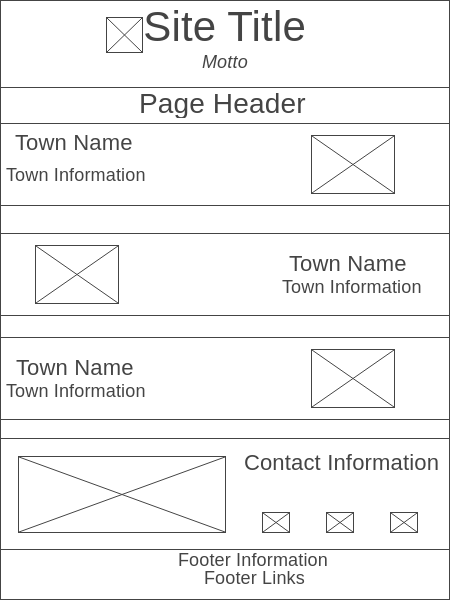
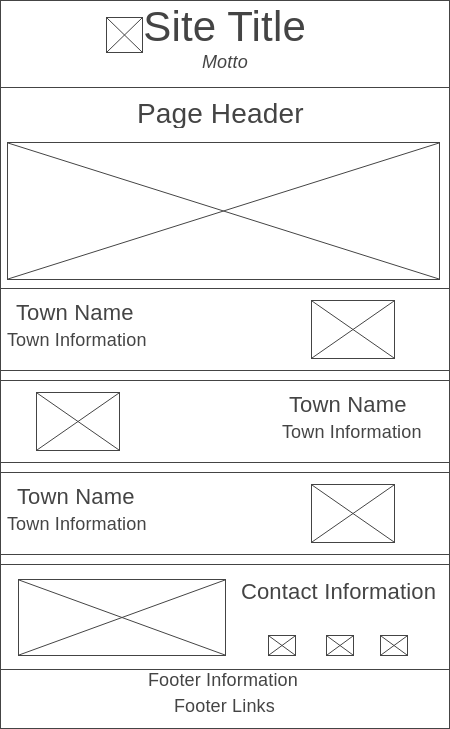
hero image

Changed region(s): [[0.0, 0.0, 0.9956, 1.0], [0.7778, 0.27, 0.8089, 0.3], [0.6222, 0.24, 0.6533, 0.27]]

diff --git a/lesson9/home_wireframes.html b/lesson9/home_wireframes.html
@@ -56,15 +56,15 @@
             <div class="wireframes">
                 <div class="wireframe">
                     <h2>Large</h2>
-                    <img src="images/150x150.png"data-src="images/large-wireframe.png" height="600" width="1024">
+                    <img src="images/150x150.png"data-src="images/large-wireframe.png" height="729" width="1024">
                 </div>
                 <div class="wireframe">
                     <h2>Medium</h2>
-                    <img src="images/150x150.png" data-src="images/medium-wireframe.png" height="600" widht="800">
+                    <img src="images/150x150.png" data-src="images/medium-wireframe.png" height="729" widht="800">
                 </div>
                 <div class="wireframe">
                     <h2>Small</h2>
-                    <img src="images/150x150.png" data-src="images/small-wireframe.png" height="600" width="450">
+                    <img src="images/150x150.png" data-src="images/small-wireframe.png" height="729" width="450">
                 </div>
             </div>
             <div class="contact-information">

diff --git a/lesson9/css/small.css b/lesson9/css/small.css
@@ -302,9 +302,15 @@ p {
 .wireframe{
     box-shadow: 0px 2px 5px;
 }
+.wireframe h2{
+    background-color: #518260;
+    padding: 15px;
+    margin-top: 0;
+}
 .wireframe img{
-    width: 100%;
-    height: 100%;
+    object-position: center;
+    object-fit: cover;
+    aspect-ratio: 5/3;
 }
 .wireframe:nth-child(2){
     max-width: 800px;
@@ -313,4 +319,12 @@ p {
 .wireframe:nth-child(3){
     max-width: 450px;
     width: 100%;
+}
+.home-hero img{
+    width: 100%;
+    height: 100%;
+    object-position: center;
+}
+.home-hero img:hover{
+    box-shadow:0 2px 5px 3px#2C2F2D;
 }

diff --git a/lesson9/css/medium.css b/lesson9/css/medium.css
@@ -67,4 +67,23 @@
     .towns p{
         font-size: 20px;
     }
+    .home-hero{
+        background:url("../images/home-hero-image.jpeg") no-repeat;
+        background-size: 100%;
+        width: 100%;
+        height: 400px;
+        aspect-ratio: 5/3.3;
+        background-size: cover;
+        background-position: center;
+        margin: 0 auto;
+        margin-top: -20px;
+        margin-bottom: 20px;
+        box-shadow: 0 2px 5px #2C2F2D;
+    }
+    .home-hero:hover{
+        box-shadow:0 2px 5px 3px#2C2F2D;
+    }
+    .home-hero img{
+        display: none;
+    }
 }

diff --git a/lesson9/css/large.css b/lesson9/css/large.css
@@ -100,4 +100,22 @@
     .towns section:nth-child(odd){
         padding: 0;
     }
+    .home-hero{
+        background:url("../images/home-hero-image.jpeg") no-repeat;
+        background-size: 100%;
+        width: 97%;
+        height: 400px;
+        aspect-ratio: 500/333;
+        background-size: cover;
+        background-position: center;
+        margin: 0 auto;
+        margin-top: -25px;
+        box-shadow: 0 2px 5px #2C2F2D;
+    }
+    .home-hero:hover{
+        box-shadow:0 2px 5px 3px#2C2F2D;
+    }
+    .home-hero img{
+        display: none;
+    }
 }

diff --git a/lesson9/index.html b/lesson9/index.html
@@ -52,7 +52,10 @@
         </nav>
         <div class="content">
         <main>
-            <h1>Keep Tabs on Your Weather</h1>
+            <div class="home-hero">
+                <h1>Keep Tabs on Your Weather</h1>
+                <img src="images/150x150.png" data-src="images/home-hero-image.jpeg" width="500" height="333">
+            </div>
             <div class="towns">
             </div>
             <div class="contact-information">
